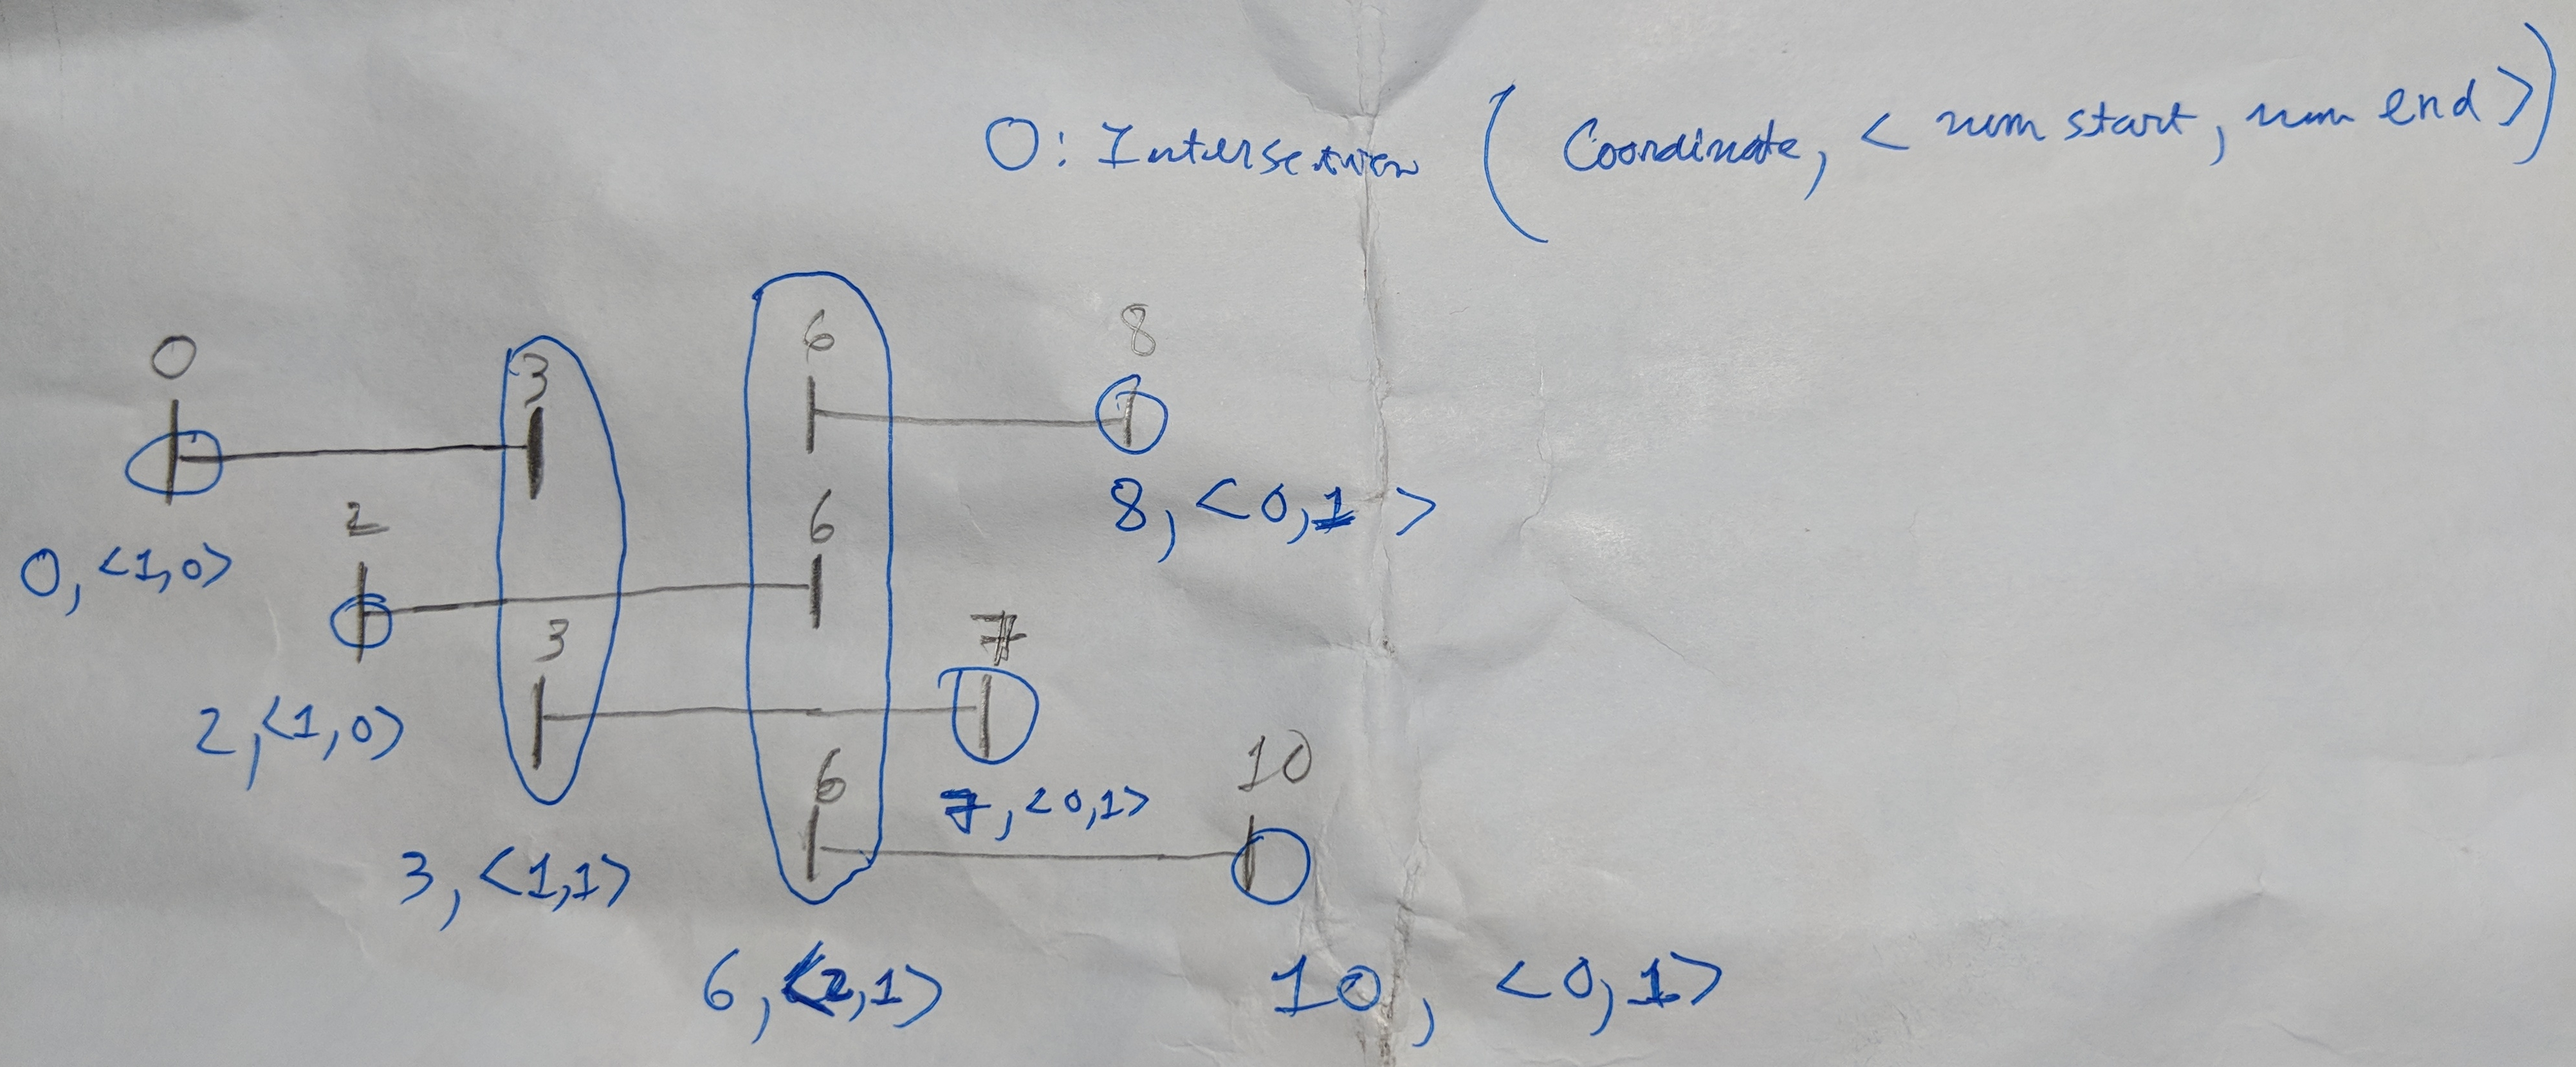
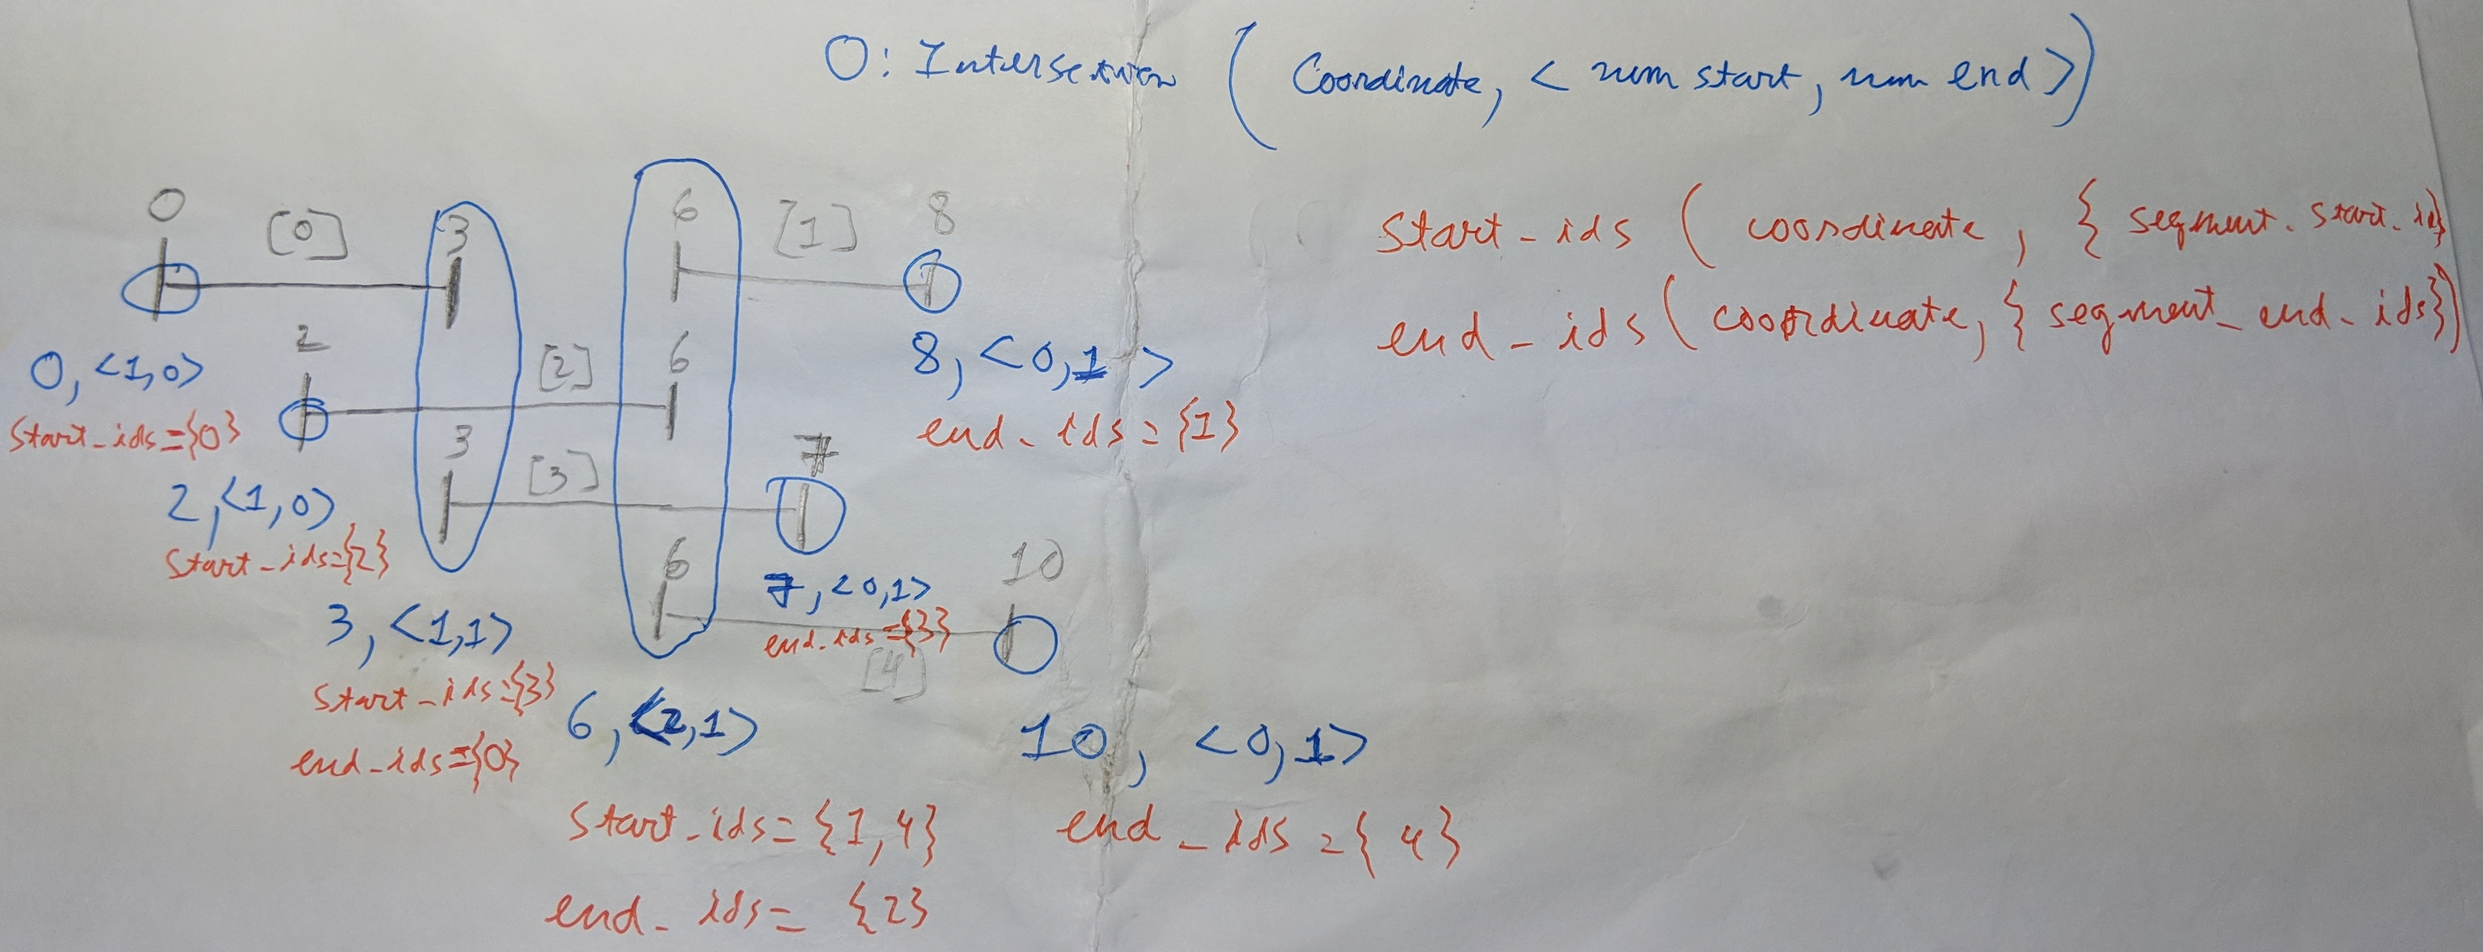
Fix segments - intersection model

diff --git a/Notes_on_Algorithms/Math_Geometry/PointAndSegments.h b/Notes_on_Algorithms/Math_Geometry/PointAndSegments.h
@@ -28,8 +28,8 @@ bool isAllIntersect(const vector<pair<int,int>> &segs, pair<int,int> &res) {
     int a = -inf;
     int b = inf;
     for(int i = 0; i < segs.size(); ++i) {
-        a = max(a,segs[i].first());
-        b = min(b,segs[i].second());
+        a = max(a,segs[i].first);
+        b = min(b,segs[i].second);
     }
 
     if(a > b)
